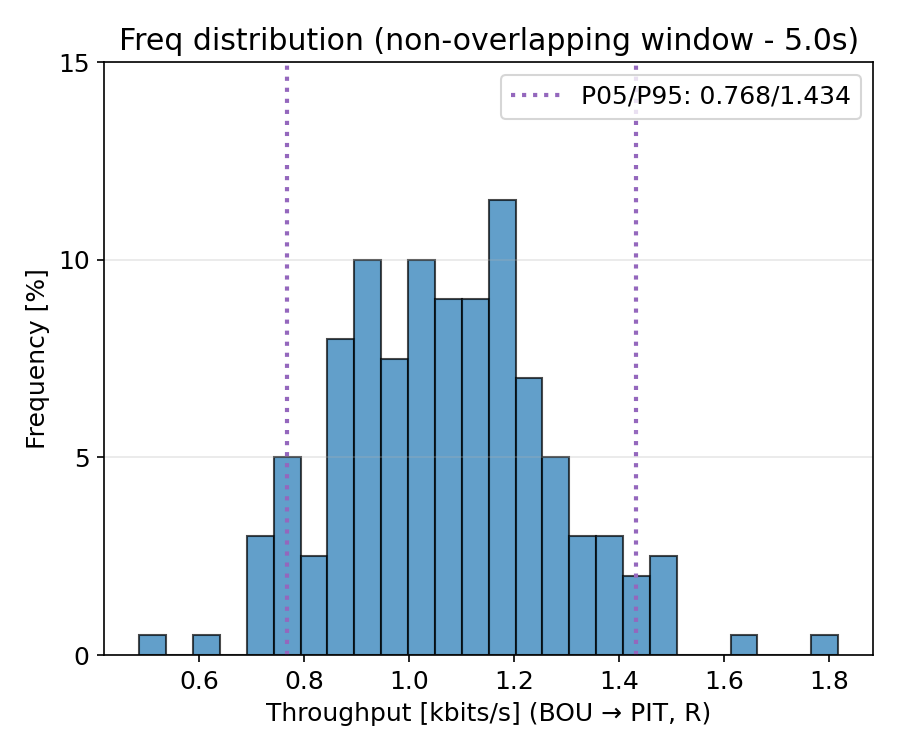
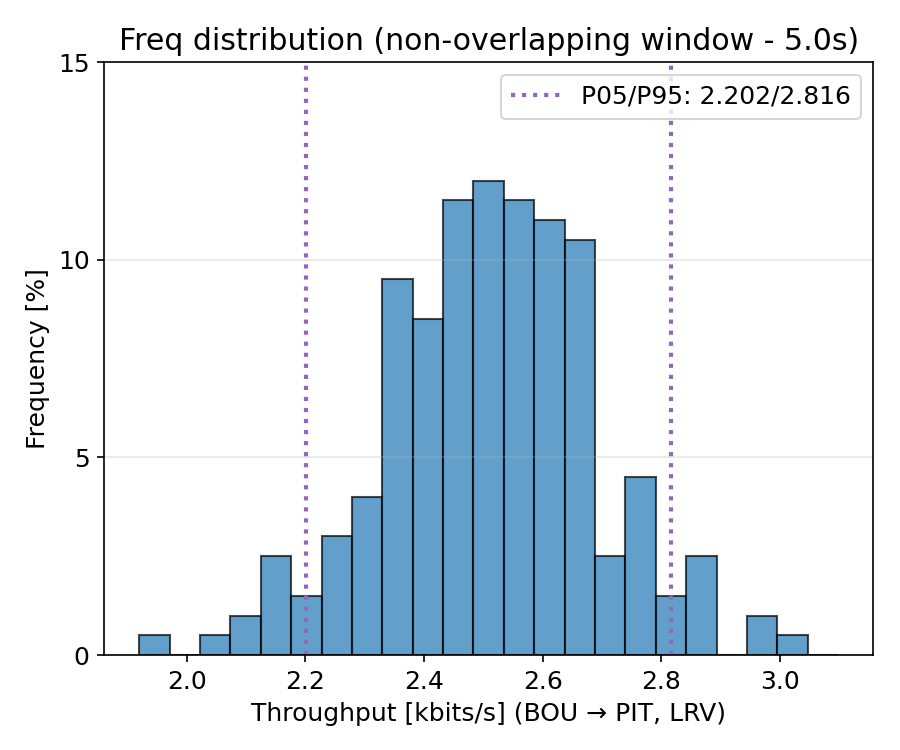
fix nonbacktracking

Changed region(s): [[0.1867, 0.2147, 0.9644, 0.9813], [0.7778, 0.092, 0.9644, 0.1533], [0.3111, 0.092, 0.3422, 0.184]]

diff --git a/throughput.py b/throughput.py
@@ -98,8 +98,12 @@ def choose_next(p: Packet, neighbours: list[str], variant: Literal["random", "no
     assert len(neighbours) > 1
     if variant == "random": return choice(neighbours)
     elif variant == "nonbacktracking":
-        assert len(p.history) > 0 # it should always contain the source node
-        other_nodes = [n for n in neighbours if n != p.history[-1]]
+        if len(p.history) < 2:
+            return choice(neighbours)
+        prev_node = p.history[-2]
+        other_nodes = [n for n in neighbours if n != prev_node]
+        if not other_nodes:
+            return prev_node
         return choice(other_nodes)
     elif variant == "lrv":
         assert len(p.history) > 0 # it should always contain the source node
@@ -316,7 +320,7 @@ if __name__ == "__main__":
     S, T = "BOU", "PIT"
     print(f"S: {S}, T: {T}")
 
-    variant = "random"
+    variant = "lrv"
     config = {
         "KEY_SIZE": KEY_SIZE,
         "NODE_BUFF_KEYS": NODE_BUFF_KEYS,
